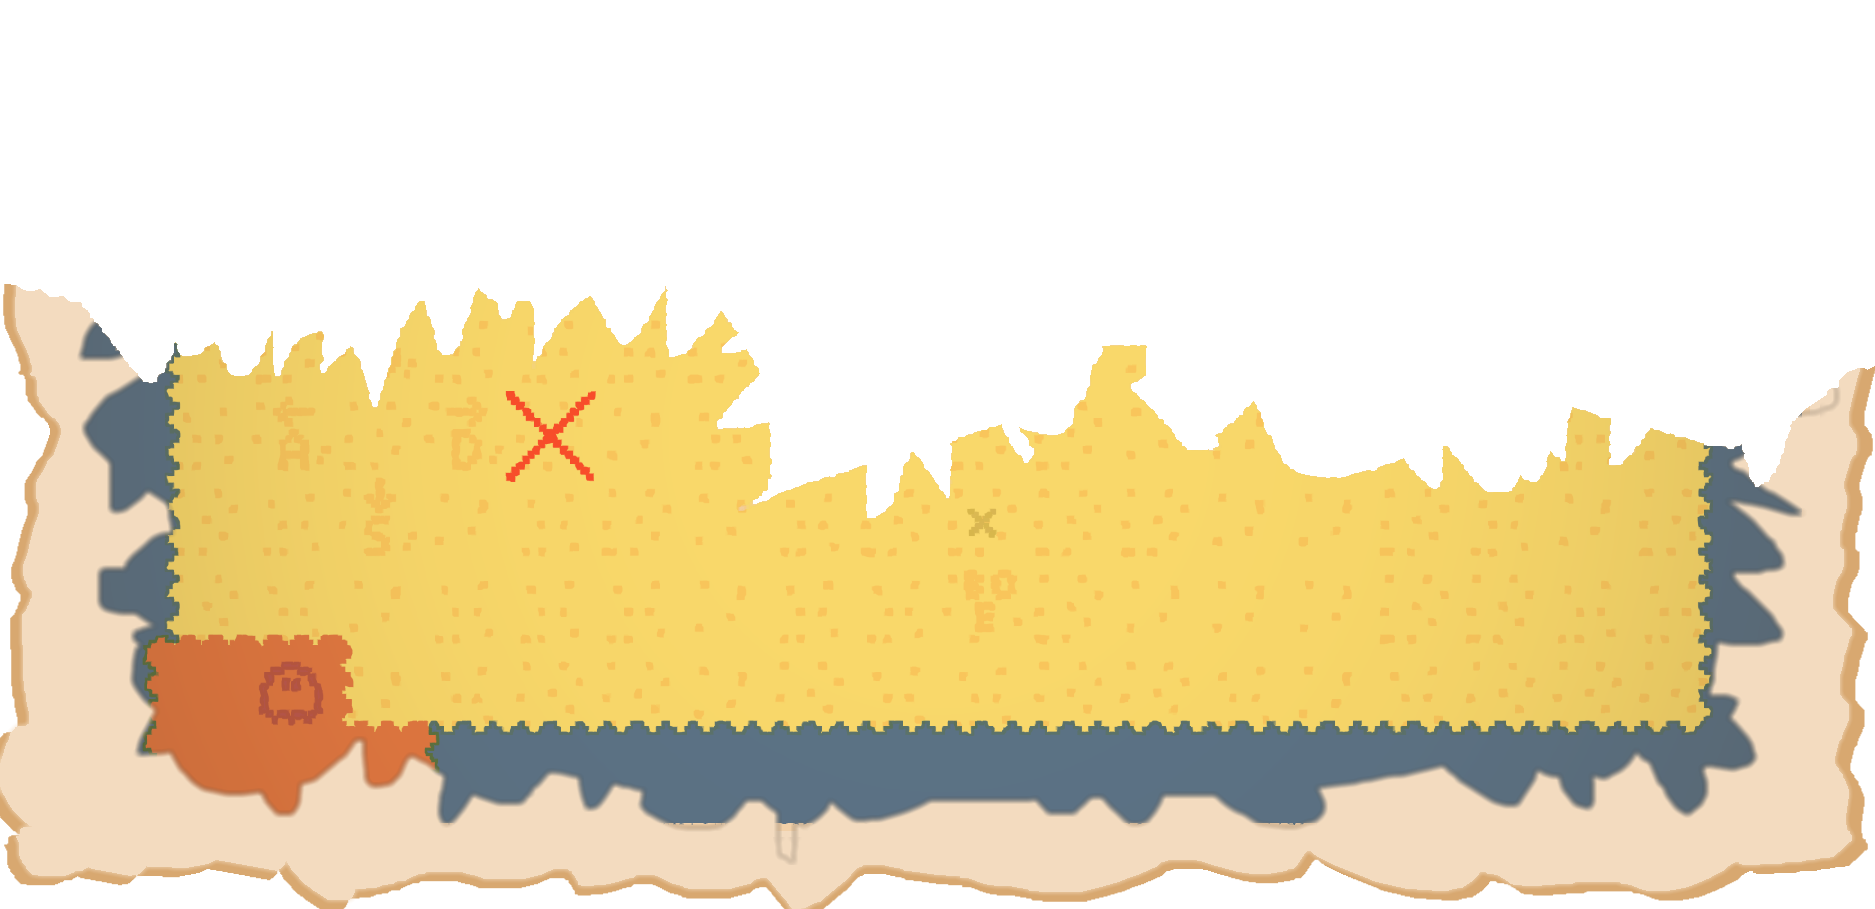
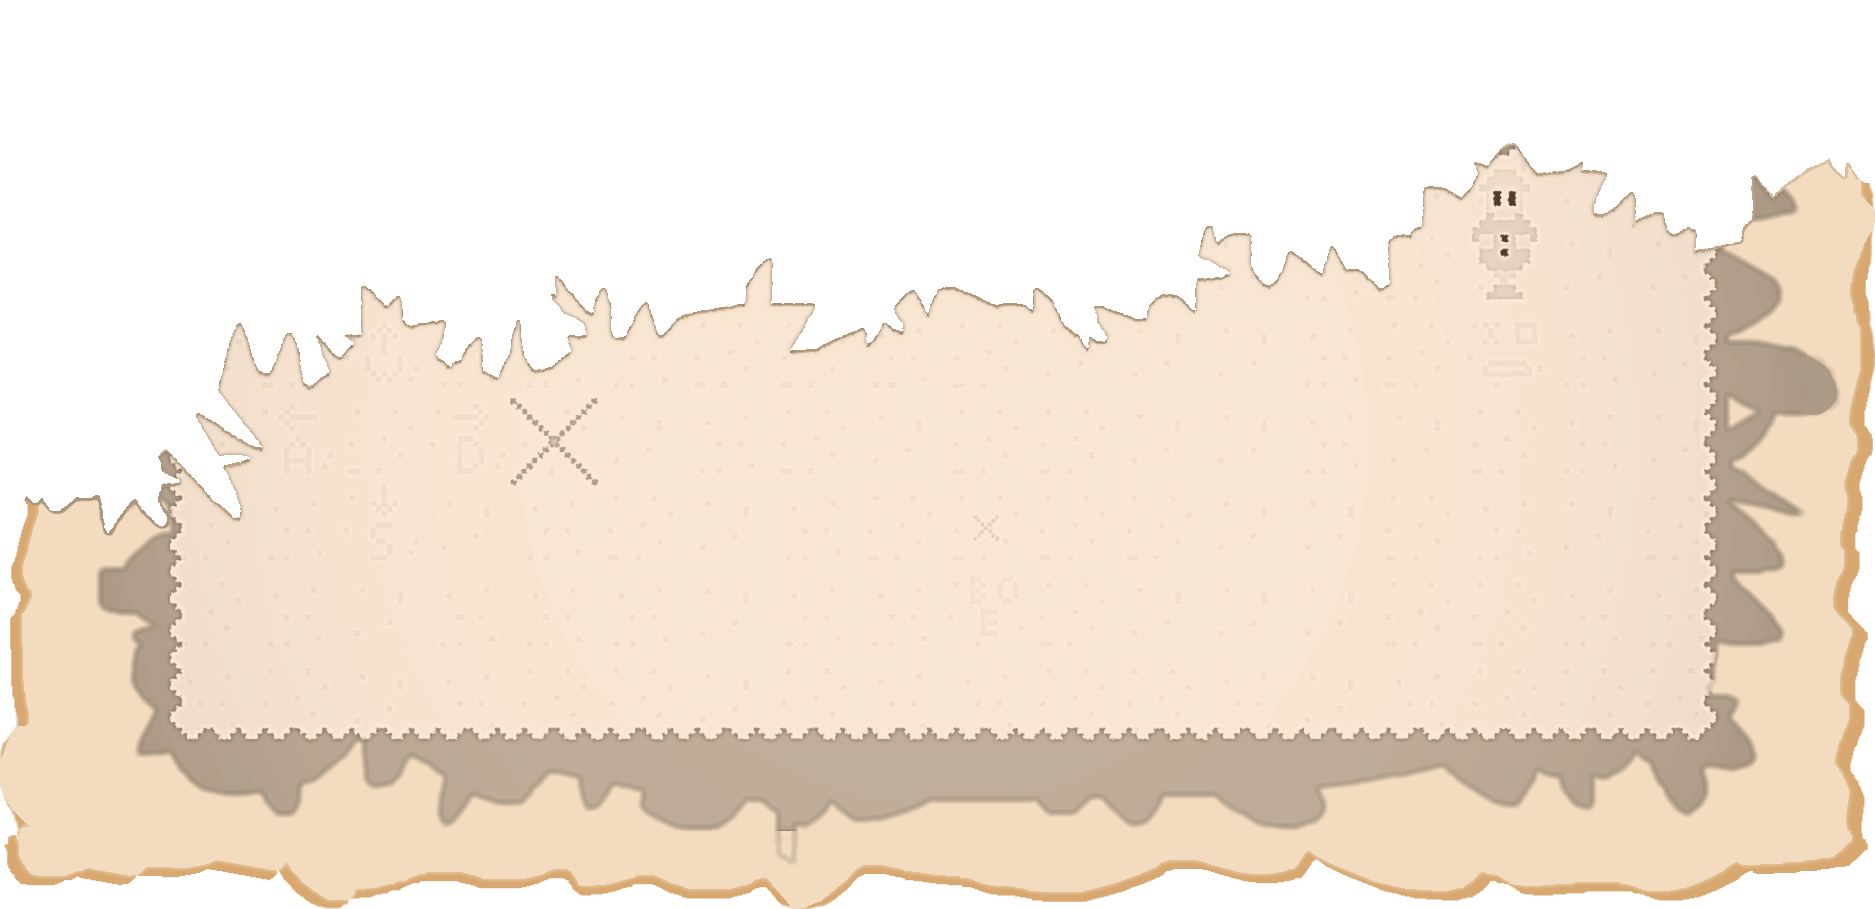
new map

diff --git a/src/game/dialogs/map.py b/src/game/dialogs/map.py
@@ -4,10 +4,10 @@ from game.gameDialog import GameDialog
 from settings import Settings
 
 
-multPos = getPosMult(Settings.width * 0.9, Settings.height * 0.9)
+multPos = getPosMult(Settings.width * 0.97, Settings.height * 0.841)
 
-map1 = pygame.transform.scale(load_image("mapImg1.png"), (int(Settings.width * 0.9), int(Settings.height * 0.9)))
-map2 = pygame.transform.scale(load_image("mapImg2.png"), (int(Settings.width * 0.9), int(Settings.height * 0.9)))
+map1 = pygame.transform.scale(load_image("mapImg1.png"), (int(Settings.width * 0.97), int(Settings.height * 0.841)))
+map2 = pygame.transform.scale(load_image("mapImg2.png"), (int(Settings.width * 0.97), int(Settings.height * 0.841)))
 
 
 class GameDialog_map(GameDialog):
